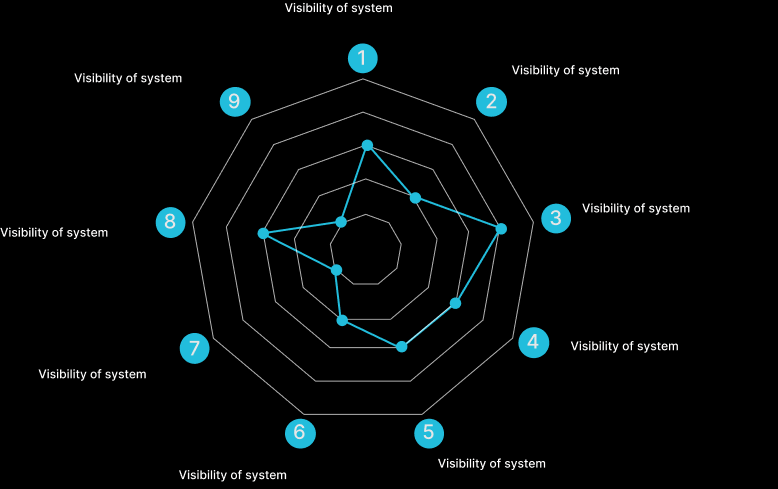
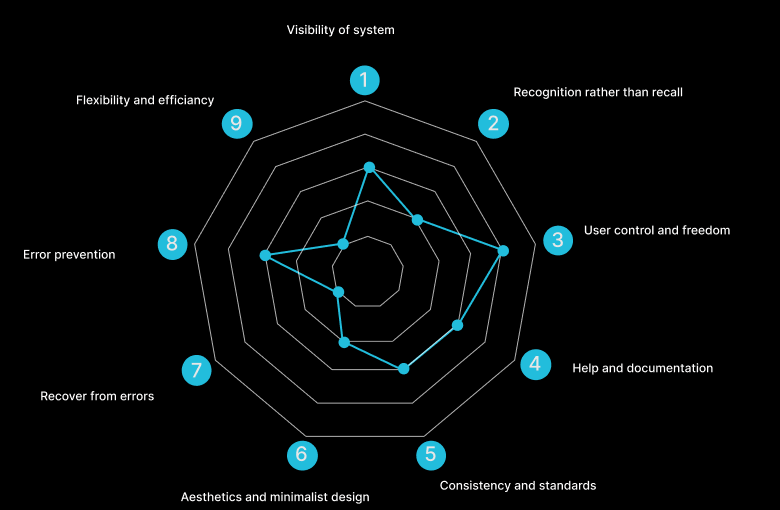
fix(yulu): update copy, images, and CTA links to match Figma design
Replace placeholder body text across all sections with final copy from
Figma, update radar chart and phone mockup images with correct content,
and wire up View in Figma / View full report buttons to live URLs.

diff --git a/src/pages/YuluCaseStudy/index.tsx b/src/pages/YuluCaseStudy/index.tsx
@@ -82,11 +82,7 @@ function HeroSection() {
                 lineHeight: 'normal'
               }}
             >
-              Throughout the semester, we have been working on the Yulu app's user experience, 
-              starting with identifying the critical gaps in user experience faced by customers 
-              through techniques such as affinity mapping, secondary research, and user journey 
-              mapping; these allowed us to create a preliminary set of problem statements which 
-              we refined later on as we conducted more study and used techniques such as contextual inquiries.
+              This user research project focused on studying and redesigning the Yulu app through primary research methods like contextual enquiry and usability testing, supported by secondary research including heuristic evaluation and competitor analysis. The insights gathered helped identify usability issues and informed a redesign proposal to improve the overall user experience.
             </p>
           </motion.div>
         </div>
@@ -353,9 +349,7 @@ function BlackSection() {
         className="absolute font-medium"
         style={{ left: '4.53vw', top: '13.2vw', width: '25vw', fontSize: B, lineHeight: 'normal', color: C }}
       >
-        Throughout the semester, we have been working on the Yulu app's user experience,
-        starting with identifying the critical gaps in user experience faced by customers
-        through techniques such as affinity mapping, secondary research, and user journey mapping;
+        A heuristic evaluation of the redesigned Yulu app identified usability issues such as lack of system feedback, inconsistent terminology, and unclear icon usage. These insights guided improvements in navigation, interface clarity, and overall user experience.
       </motion.p>
 
       {/* Radar chart image: x=502, y=82, w=778, h=489 */}
@@ -397,9 +391,7 @@ function BlackSection() {
         className="absolute font-medium"
         style={{ left: '49.53vw', top: '53.36vw', width: '46.02vw', fontSize: B, lineHeight: 'normal', color: C }}
       >
-        Throughout the semester, we have been working on the Yulu app's user experience,
-        starting with identifying the critical gaps in user experience faced by customers
-        through techniques such as affinity mapping, secondary research, and user journey mapping;
+        Usability testing with paper prototypes was conducted to evaluate the redesigned Yulu app during the early design stage. Participants were asked to perform key tasks such as booking a ride, accessing support, and finding transaction details using low-fidelity paper screens.
       </motion.p>
 
       {/* Usability text 2: x=638, y=838, w=581 */}
@@ -410,9 +402,7 @@ function BlackSection() {
         className="absolute font-medium"
         style={{ left: '49.84vw', top: '65.47vw', width: '45.39vw', fontSize: B, lineHeight: 'normal', color: C }}
       >
-        Throughout the semester, we have been working on the Yulu app's user experience,
-        starting with identifying the critical gaps in user experience faced by customers
-        through techniques such as affinity mapping, secondary research, and user journey mapping;
+        The testing revealed issues related to booking clarity, cognitive overload, and feature discoverability. Feedback led to improvements such as adding a booking progress bar, relocating the coupon feature to the payment stage, improving visibility of balance and transaction history, and providing clearer location and vehicle condition information.
       </motion.p>
 
       {/* Contextual title: x=46, y=1012 */}
@@ -434,9 +424,7 @@ function BlackSection() {
         className="absolute font-medium"
         style={{ left: '3.59vw', top: '87.42vw', width: '44.06vw', fontSize: B, lineHeight: 'normal', color: C }}
       >
-        Throughout the semester, we have been working on the Yulu app's user experience,
-        starting with identifying the critical gaps in user experience faced by customers
-        through techniques such as affinity mapping, secondary research, and user journey mapping;
+        Contextual enquiry for the Yulu app was conducted with first-time, occasional, and frequent users performing real-world tasks such as booking rides, scanning QR codes, accessing support, and managing payments. Key Learnings The study revealed issues related to unclear onboarding, confusing ride options, lack of system feedback, QR scanning difficulties, inaccurate bike information, and unclear pricing. Users also highlighted the need for better support, improved accessibility, clearer vehicle condition details, and more reliable navigation and payment experiences.
       </motion.p>
 
       {/* Scooter: pinned to right edge, sized to fit within section */}
@@ -501,9 +489,7 @@ function FeatureComparisonSection() {
           }}
         >
           <p className="font-medium text-black" style={{ fontSize: '1.5625vw', lineHeight: 'normal' }}>
-            Throughout the semester, we have been working on the Yulu app's user experience,
-            starting with identifying the critical gaps in user experience faced by customers
-            through techniques such as affinity mapping, secondary research, and user journey mapping;
+            Platforms like Yulu and Zypp provide battery-swapping support, while others focus more on operational reach or ride experience. This analysis helped identify opportunities to design a more balanced and user-friendly solution by combining accessibility, convenience, and sustainable mobility features into a single streamlined experience.
           </p>
         </div>
 
@@ -583,9 +569,7 @@ function YuluStrengthsSection() {
           }}
         >
           <p className="font-medium text-black" style={{ fontSize: '1.5625vw', lineHeight: 'normal' }}>
-            Throughout the semester, we have been working on the Yulu app's user experience,
-            starting with the critical gaps in user experience faced by customers through
-            techniques such as affinity mapping, secondary research, and user journey mapping;
+            The feature analysis highlighted Yulu's key strengths in creating an accessible and sustainable urban mobility experience. Features such as battery swapping reduce range anxiety, while affordable pricing makes the service attractive to budget-conscious users.
           </p>
         </div>
 
@@ -599,9 +583,7 @@ function YuluStrengthsSection() {
           }}
         >
           <p className="font-medium text-black" style={{ fontSize: '1.5625vw', lineHeight: 'normal' }}>
-            Throughout the semester, we have been working on the Yulu app's user experience,
-            starting with the critical gaps in user experience faced by customers through
-            techniques such as affinity mapping, secondary research, and user journey mapping;
+            The platform's eco-friendly approach, convenient city coverage, and no-license requirement further improve accessibility and ease of use for everyday commuters.
           </p>
         </div>
       </motion.div>
@@ -645,7 +627,9 @@ function FinalDesignSection() {
           style={{ marginTop: '4vw', gap: '1.64vw' }}
         >
           <a
-            href="#"
+            href="https://www.figma.com/design/QOsld9gNcTzuVTsrWzuUIa/Yulu?node-id=1-236&t=Yh1hBAo60VWkMaEE-0"
+            target="_blank"
+            rel="noopener noreferrer"
             className="flex items-center justify-center font-medium"
             style={{
               width: '11.25vw',
@@ -658,10 +642,12 @@ function FinalDesignSection() {
               textDecoration: 'none',
             }}
           >
-            Open Prototype
+            View in Figma
           </a>
           <a
-            href="#"
+            href="https://docs.google.com/document/d/19sb3g5PcVzDwsgHiDJ3eJtZ5kBRI291fYohc7HY1nxc/edit?tab=t.0"
+            target="_blank"
+            rel="noopener noreferrer"
             className="flex items-center justify-center font-medium"
             style={{
               width: '10.94vw',

diff --git a/src/pages/YuluCaseStudy/data.ts b/src/pages/YuluCaseStudy/data.ts
@@ -148,15 +148,15 @@ export const rowLabels = [
 ];
 
 export const heuristicLabels = [
-  "Visibility of system status",
-  "Match between system & world",
-  "User control & freedom",
-  "Consistency & standards",
+  "Visibility of system",
+  "Flexibility and efficiency",
   "Error prevention",
-  "Recognition over recall",
-  "Flexibility & efficiency",
-  "Aesthetic & minimal design",
-  "Help users with errors",
+  "Recover from errors",
+  "Aesthetics and minimalist design",
+  "Consistency and standards",
+  "Help and documentation",
+  "User control and freedom",
+  "Recognition rather than recall",
 ];
 
 export interface CompetitorData {
